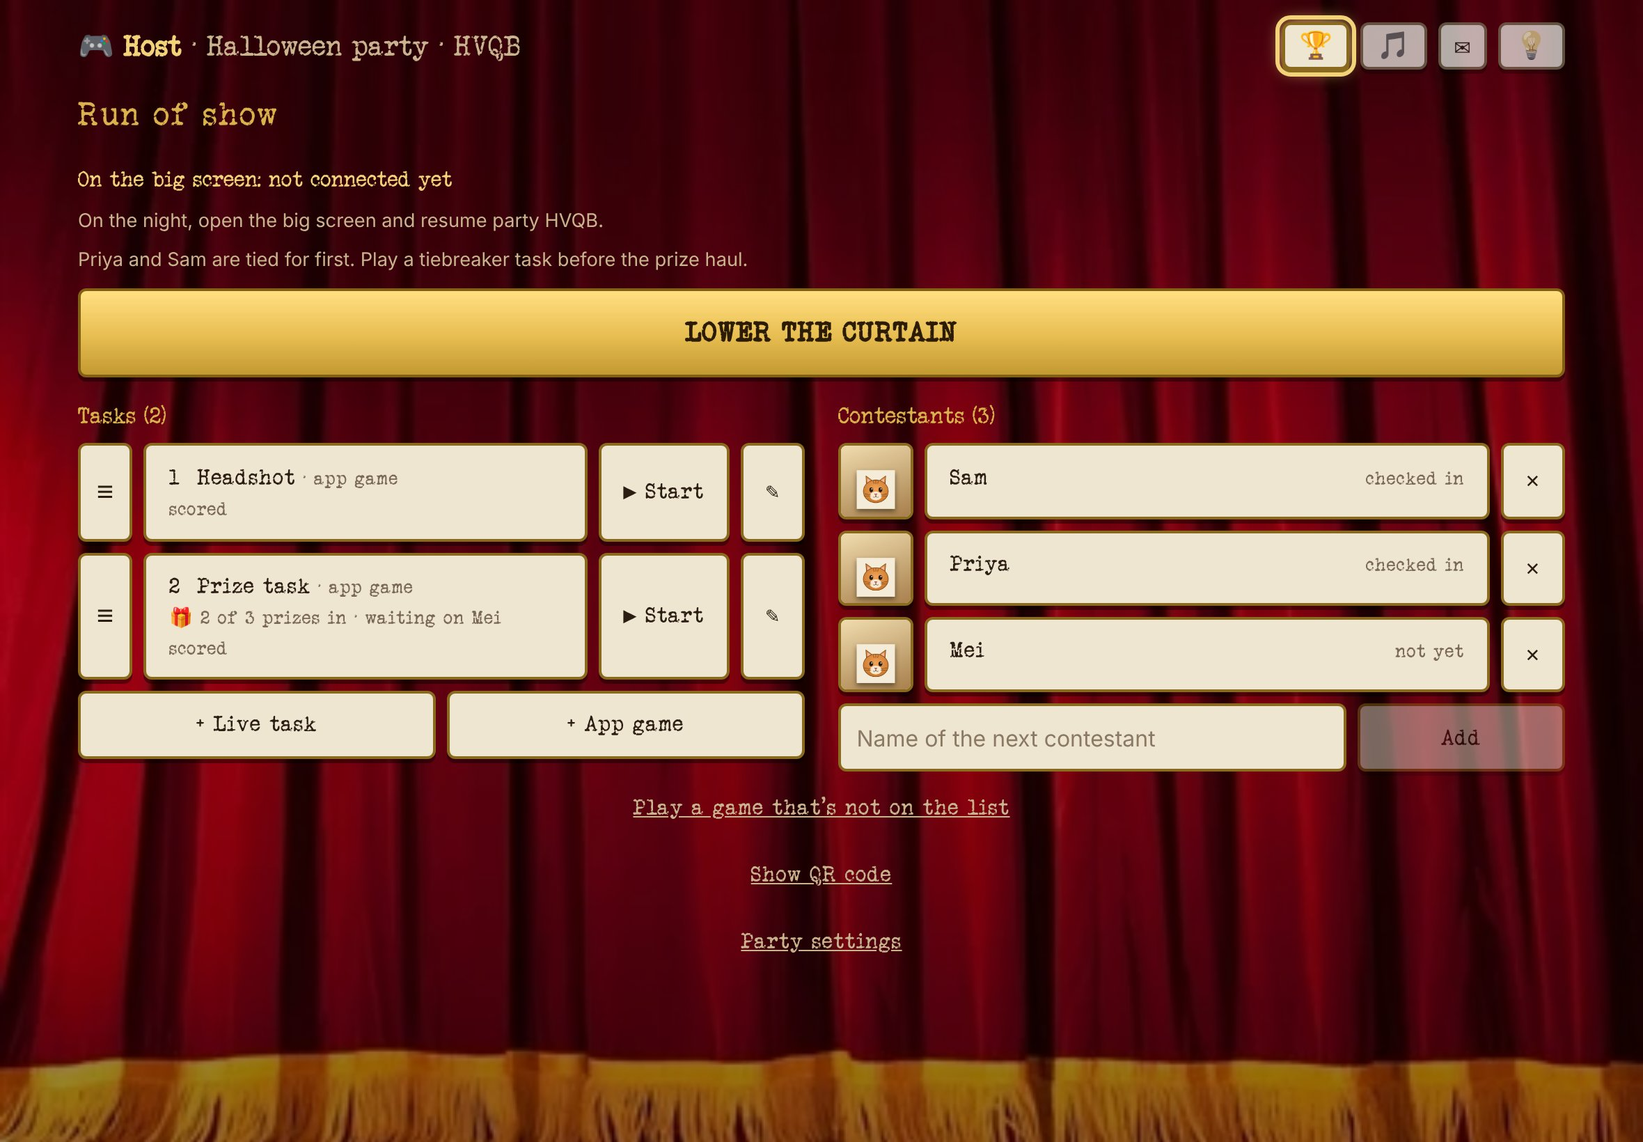
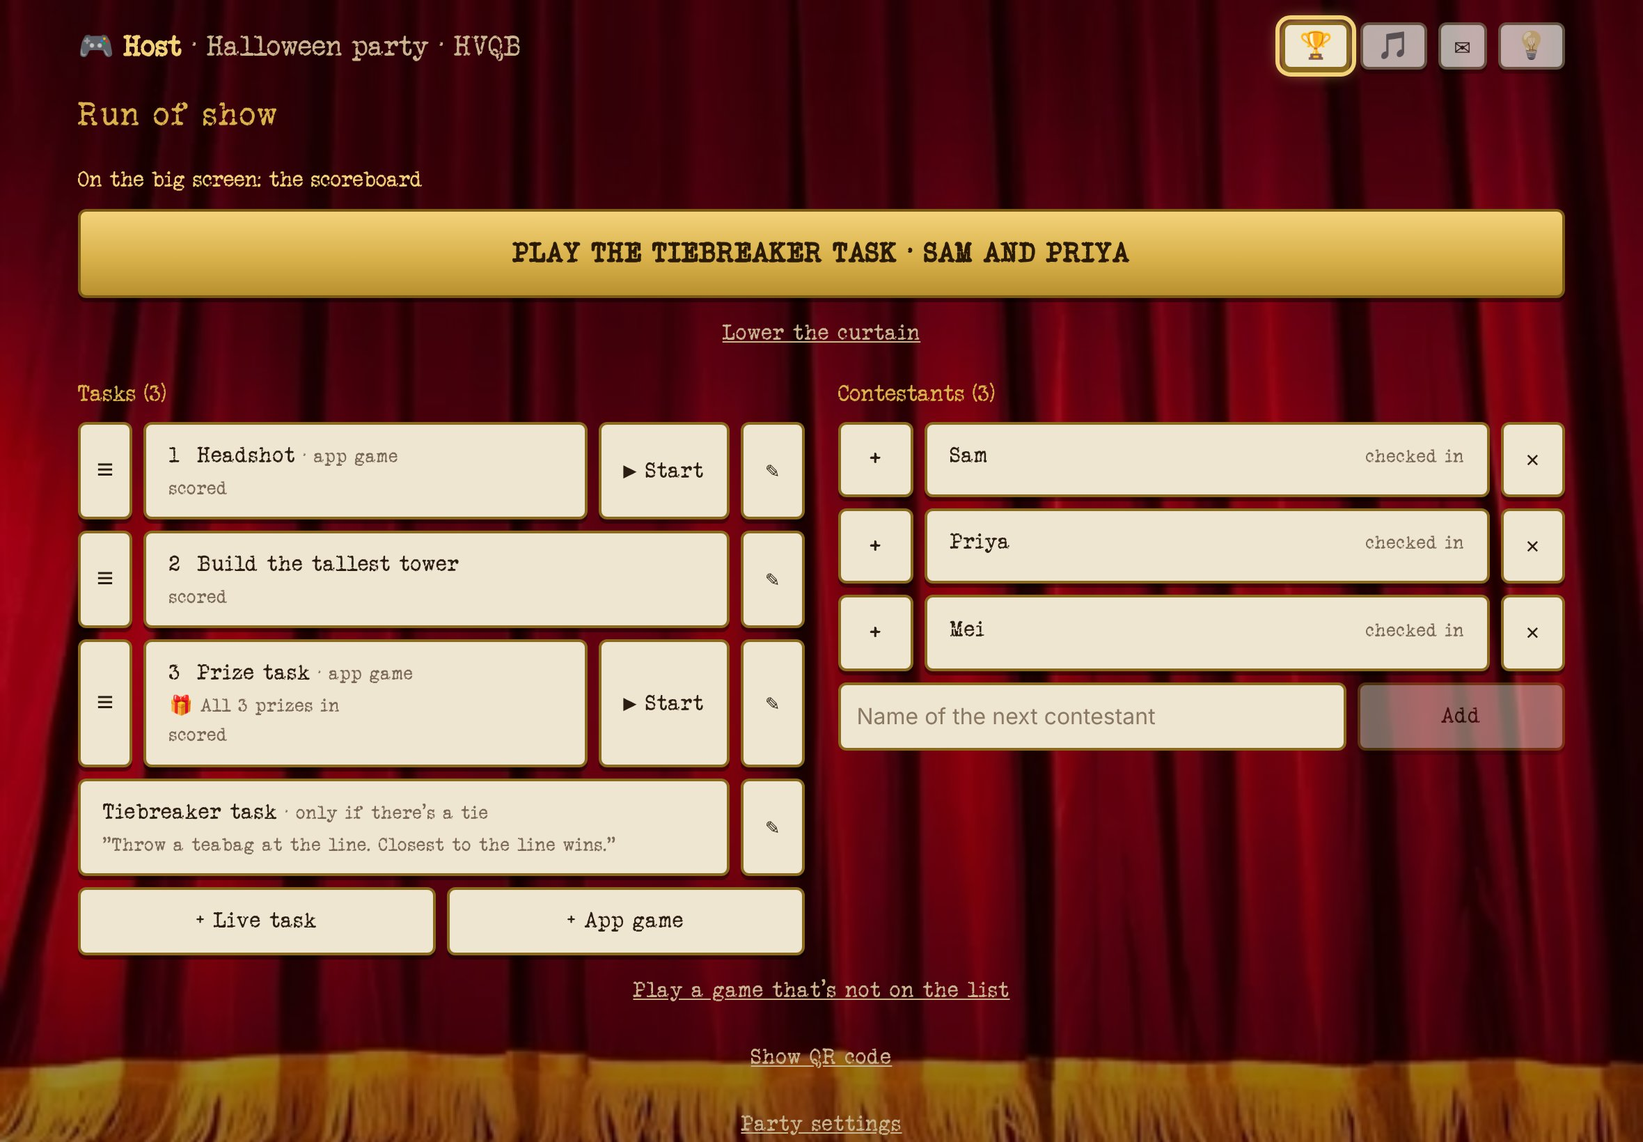
Tiebreaker task: build it for real
A tie shows with or without prize photos, the Firebase rules take the
tiebreaker (name, note, winner), and the decisions and screens are in docs.

Claude-Session: https://claude.ai/code/session_01DZ7V9oHhNtdU6L9jiZhxMo

diff --git a/src/scoreboard/ScoreboardRemote.tsx b/src/scoreboard/ScoreboardRemote.tsx
@@ -1,7 +1,7 @@
 import { useEffect, useRef, useState } from "react";
 import { GAMES, activeGame } from "../games";
 import { switchPhotosTask } from "../games/photos/data";
-import { haulState, prizesIn, showHaul } from "../games/prize/data";
+import { anyPrizes, prizesIn, showHaul, standing } from "../games/prize/data";
 import { noBigScreen, removePlayer, setGame, useUid } from "../session";
 import type { GameId, Scoreboard, ScoreboardContestant, ScoreboardTask, Session } from "../types";
 import {
@@ -47,7 +47,7 @@ export function ScoreboardRemote({ code, session, onStartGame, onOpenGame, onAdH
   // The tiebreaker task's page, opened from the gold button when the last update leaves a tie.
   const [tiebreak, setTiebreak] = useState<string[]>();
   // Who's tied at the top once every task is in and shown (still so once the tiebreaker has a winner).
-  const tied = haulState(session)?.tied;
+  const tied = standing(session)?.tied;
   const upNext = unfinished ?? next;
   const open = (id: string) => { setPicked(id); window.scrollTo(0, 0); };
   const game = activeGame(session);
@@ -96,10 +96,12 @@ function ShowControls({ code, session, onTiebreak }: { code: string; session: Se
   const { added, changed } = pendingTasks(board);
   const pending = [added && plural(added, "new task"), changed && `${changed} changed`].filter(Boolean).join(", ");
   const game = activeGame(session);
-  // A tie settled by the tiebreaker task can go to the haul from the curtain too: the tiebreaker
-  // was played with the scoreboard down.
-  const settled = haulState(session);
-  const haul = up || (settled && "winner" in settled && settled.tied) ? settled : undefined;
+  const now = standing(session);
+  // Still tied at the top: the tiebreaker task is the next thing.
+  const tied = now && !("winner" in now) ? now.tied : undefined;
+  // The haul goes up from the scoreboard, or from the curtain once a tiebreaker has been won (it's
+  // played with the scoreboard down).
+  const winner = now && "winner" in now && !pending && anyPrizes(session) && (up || now.tied) ? now.winner : undefined;
   const nameOf = (id: string) => board?.contestants?.[id]?.name ?? "";
   const haulUp = session.display?.step === "haul";
   const line = noBigScreen(session) ? "not connected yet" : up ? "the scoreboard" : haulUp ? "the prize haul"
@@ -115,27 +117,27 @@ function ShowControls({ code, session, onTiebreak }: { code: string; session: Se
           <button className="big" onClick={() => void lowerCurtain(code)}>Lower the curtain</button>
           <button className="link" onClick={() => void showScoreboard(code)}>Back to the scoreboard</button>
         </>
-      ) : !up && !haul ? (
+      ) : !up && !winner ? (
         <>
           <button onClick={() => void showScoreboard(code)}>Show the scoreboard</button>
           {pending && <p className="muted small">At the totals you last showed. {pending} to add when you update.</p>}
         </>
-      ) : pending ? (
+      ) : up && pending ? (
         <>
           <button className="big" onClick={() => void updateScores(code, board)}>Update the scores · {pending}</button>
           <button className="link" onClick={() => void lowerCurtain(code)}>Lower the curtain</button>
         </>
-      ) : haul && "winner" in haul ? (
+      ) : winner ? (
         // The end of the party: the winner's haul is the one next thing.
         <>
-          <button className="big" onClick={() => void showHaul(code)}>🎁 Show the prize haul · {nameOf(haul.winner)}</button>
+          <button className="big" onClick={() => void showHaul(code)}>🎁 Show the prize haul · {nameOf(winner)}</button>
           {up && <button className="link" onClick={() => void lowerCurtain(code)}>Lower the curtain</button>}
         </>
-      ) : haul ? (
+      ) : tied ? (
         // A tie at the top: the tiebreaker, for just the tied contestants, is the one next thing. It's a
         // live task, so the curtain comes down while it's played.
         <>
-          <button className="big" onClick={() => { void lowerCurtain(code); onTiebreak(haul.tied); }}>Play the tiebreaker task · {list(haul.tied.map(nameOf))}</button>
+          <button className="big" onClick={() => { void lowerCurtain(code); onTiebreak(tied); }}>Play the tiebreaker task · {list(tied.map(nameOf))}</button>
           <button className="link" onClick={() => void lowerCurtain(code)}>Lower the curtain</button>
         </>
       ) : (

diff --git a/src/games/prize/data.ts b/src/games/prize/data.ts
@@ -9,15 +9,14 @@ import type { Session } from "../../types";
 export const prizePhotos = (session: Session): Record<string, string[]> => session.games?.prize?.photos ?? {};
 
 /**
- * Whether the prize haul can go up: once every task on the run of show has points and the last of them
- * is on the scoreboard, with at least one prize photo. A tie at the top waits for a tiebreaker task
- * (just the tied contestants), so it names who's tied instead of a winner.
+ * Who won the night, once every task on the run of show has points and the last of them is on the
+ * scoreboard: the leader, or the winner of the tiebreaker task when the top is tied. A tie the
+ * tiebreaker hasn't settled names who's tied; `tied` stays on a settled one, for its page.
  */
-export function haulState(session: Session): { winner: string; tied?: string[] } | { tied: string[] } | undefined {
+export function standing(session: Session): { winner: string; tied?: string[] } | { tied: string[] } | undefined {
   const board = session.scoreboard;
   const tasks = Object.values(board?.tasks ?? {});
   if (!tasks.length || tasks.some((t) => !Object.keys(t.scores ?? {}).length)) return undefined;
-  if (!Object.values(prizePhotos(session)).some((p) => p.length)) return undefined;
   const totals = shownTotals(board);
   const top = Math.max(...Object.keys(board?.contestants ?? {}).map((c) => totals[c] ?? 0));
   const leaders = Object.keys(board?.contestants ?? {}).filter((c) => (totals[c] ?? 0) === top);
@@ -25,6 +24,15 @@ export function haulState(session: Session): { winner: string; tied?: string[] }
   // A tie settled by the tiebreaker task: its winner, as long as they're still among the tied.
   const settled = board?.tiebreaker?.winner;
   return settled && leaders.includes(settled) ? { winner: settled, tied: leaders } : { tied: leaders };
+}
+
+/** Whether any prize has a photo, so the haul has something to hang. */
+export const anyPrizes = (session: Session) => Object.values(prizePhotos(session)).some((p) => p.length);
+
+/** Whose haul can go up: the night's winner (see `standing`), once at least one prize has a photo. */
+export function haulWinner(session: Session): string | undefined {
+  const now = standing(session);
+  return now && "winner" in now && anyPrizes(session) ? now.winner : undefined;
 }
 
 /**

diff --git a/src/games/prize/Stage.tsx b/src/games/prize/Stage.tsx
@@ -5,7 +5,7 @@ import { SafeImg } from "../../SafeImg";
 import { setDisplay } from "../../session";
 import { useStageBarVisible } from "../../stageBar";
 import type { Display, Session } from "../../types";
-import { haulState, prizePhotos } from "./data";
+import { haulWinner, prizePhotos } from "./data";
 
 /** Main screen while the prize task is on: the photo the host put up, or the curtain. */
 export function Stage({ code, session, display, viewOnly }: { code: string; session: Session; display: Display; viewOnly: boolean }) {
@@ -91,8 +91,8 @@ export function Haul({ winner, headshot, prizes }: { winner: string; headshot?: 
 /** The haul as the big screen shows it: the scoreboard's winner, and every prize's ★ photo in the scoreboard's order. */
 export function HaulStage({ code, session }: { code: string; session: Session }) {
   const contestants = session.scoreboard?.contestants ?? {};
-  const haul = haulState(session);
-  const winner = haul && "winner" in haul ? contestants[haul.winner] : undefined;
+  const won = haulWinner(session);
+  const winner = won ? contestants[won] : undefined;
   // A tie (or a score changed since) has no winner to show: the curtain until the host calls it again.
   if (!winner) return <Curtain code={code} session={session} />;
   const photos = prizePhotos(session);

diff --git a/docs/redesign-decisions.md b/docs/redesign-decisions.md
@@ -232,10 +232,10 @@ Each contestant brings a prize; the winner takes the whole haul. Today the Prize
 | When a prize locks | When the host taps the guest's name. | When its first photo goes up: the photos could change while the host is looking at them. |
 | Everyone at once | No "◫ Show everyone" during presenting. Everyone's prizes are shown together only as the haul at the end of the party. | Everyone's ★ photos as a grid during the task. |
 | When the haul shows | At the end of the party, when the winner is declared. | At the end of the prize task, once every prize has been talked through (briefly agreed, then Jeffrey settled on the end of the party). |
-| The winner | The scoreboard's leader after the last update. A tie at the top is settled first by a tiebreaker task for just the tied contestants (to be designed); the haul waits for one winner. | The host always picking the winner on the remote. The host tapping one of the tied contestants: a tie is played off, as on the show. |
+| The winner | The scoreboard's leader after the last update. A tie at the top is settled first by a tiebreaker task for just the tied contestants (see Tiebreaker task); the haul waits for one winner. | The host always picking the winner on the remote. The host tapping one of the tied contestants: a tie is played off, as on the show. |
 | The haul (big screen) | A gallery wall on the curtain: the winner's headshot in a large gold frame in the centre, then each prize's ★ photo in a smaller gold frame, two rows either side, each with a small paper placard "from Sam". "Prize Haul" heads the wall as a big gold title, and the winner's portrait has a larger placard, "Priya is the winner!". The winner's own prize is included; guests with no photo are left out. Frames hug their photos, never cropped. | The usual paper strip at the bottom ("PRIZE HAUL · Priya", the first version): too small for the moment, and it didn't say who won. |
 | Hanging the haul | One by one, like a gallery being hung: the headshot first, then a prize every 0.6s (the usual hang animation), filling from the centre outwards and alternating sides. With reduced motion, everything appears at once. | All at once: one by one builds the moment. |
-| Calling the haul (host) | On the run of show while the scoreboard is up, once every task has points and the last update has been run, and at least one prize has photos: gold "🎁 Show the prize haul · Priya" takes the place of gold "Lower the curtain", which becomes a link under it. The winner's name on the button confirms who the room is about to see. With a tie at the top, there's no haul button: a muted line, "Priya and Tom are tied for first. Play a tiebreaker task before the prize haul.", and "Lower the curtain" stays gold. | A haul button on the prize task's own page: the haul comes at the end of the party, after the scores, not after presenting. Picking a winner among the tied: a tie is played off. |
+| Calling the haul (host) | On the run of show while the scoreboard is up, once every task has points and the last update has been run, and at least one prize has photos: gold "🎁 Show the prize haul · Priya" takes the place of gold "Lower the curtain", which becomes a link under it. The winner's name on the button confirms who the room is about to see. With a tie at the top, there's no haul button: the tiebreaker task takes its place (see Tiebreaker task). | A haul button on the prize task's own page: the haul comes at the end of the party, after the scores, not after presenting. Picking a winner among the tied: a tie is played off. |
 | The haul up (host) | Gold "Lower the curtain", and a quiet "Back to the scoreboard" link. | |
 | A prize picked (host) | On a wide iPad: the list on the left, and "Priya's prize" on the right with her photos as large previews in her order, ★ on the first. "Tap a photo to put it on the big screen." Then a paper "+ Add photos" and "Lower the curtain" (disabled while nothing is up). No gold until a photo is on the big screen, which then gets the gold ring. Tapping another name switches straight to them. On a phone the two stack. | A separate screen per contestant (Before & After's): jumping from one guest to another would need a trip back to the list. |
 | A photo up | Tapping a preview hangs that photo in the gold frame on the big screen, labelled "prize · Priya", as a headshot hangs. On the remote it gets the gold ring and "on the big screen", the line above the list reads "On the big screen: Priya's prize, photo 2", and "Lower the curtain" wakes up. Tapping another preview (or another guest's) switches straight to it. | Previous / Next on the stage's backup bar: the host picks each photo, so there's no order to step through. |
@@ -247,6 +247,22 @@ Each contestant brings a prize; the winner takes the whole haul. Today the Prize
 | Sending (phone) | Photos' sending state as is: the progress bar takes Submit's place, "Submitting… 40%", "Keep this screen open until it's done.", Cancel; a failed send says nothing was submitted, with "Try again". All the photos go as one submission. | |
 | Submitted (phone) | A still receipt with no gold: the "✓ Submitted" stamp, "🎁 Your prize", the photos in their order with the ★ and nothing to press on them, "4 photos. Only the host sees them until your prize is presented. You can change them until then.", and a quiet "Change my photos" link back to the check screen with these photos on it. | Photos' 🔒 "ask the host" receipt: Sam can change them until the prize is presented. |
 | Once presented (phone) | While the prize task is on: the same receipt, with "Change my photos" replaced by "🔒 Your prize has been presented." After the task, the card shrinks to one line, "🎁 🔒 Your prize has been presented.", so it stops taking up the phone. Anything added after that comes from the host. | |
+
+## Tiebreaker task
+
+Every party has a tiebreaker task, played only if the last update leaves two or more contestants tied at the top, and only by them, as on the show. It has to be done before the winner and the prize haul. Designed one moment at a time with Jeffrey.
+
+| Moment | Decision | Rejected, and why |
+| --- | --- | --- |
+| Moments, in order | 1. Finding the tie. 2. Recording the winner. 3. Revealing it. 4. Playing it. 5. Planning it. 6. A tied tiebreaker. | Starting with planning: how it runs on the night decides what has to be planned. |
+| What it is | A live task designed to have exactly one winner. It has no points: the host records who won, and nobody's total on the scoreboard changes. The task decides the winner, not the host. | One of the app games: they score everyone 0 to 5. 0 to 5 points for the tied contestants. |
+| Finding the tie (host) | After the last update, with a tie at the top and the scoreboard up: gold "Play the tiebreaker task · Sam and Priya" in the haul button's place, "Lower the curtain" as a link under it. The names come in the scoreboard's order. The tie shows whether or not any prize has photos. | The muted "tied for first" line above it: the button says it. Announcing the tie on the big screen: the host says it as Taskmaster, and the scoreboard already enlarges everyone tied at the top. "Play the tiebreaker": "tiebreaker task" is what it's called on the run of show. |
+| Playing it | Like any live task. The gold tap lowers the curtain to the party's portrait and opens the tiebreaker task's page. Phones don't change: the host reads the task out. The paper "Show the scoreboard" stays above the page, as a way back. | The task on the big screen as a torn-paper card: live tasks show the curtain. "You're in the tiebreaker" on the tied guests' phones: they've just heard it. Hiding "Show the scoreboard" while it's played. |
+| Recording the winner (host) | The points page's shell: "Tiebreaker task: Sam and Priya", "← All tasks", the note under it, "Tap who won.", then the Headshot task's list with just the tied contestants. The one tapped is pressed in and reads "won the tiebreaker"; tapping it again clears it, tapping the other switches. No gold, and nothing on the big screen. | Headshots on the rows: two or three names need nothing to tell them apart. 0 to 5 chips. The tap revealing the winner straight away. |
+| Revealing it | No reveal on the big screen: the host announces it. Recording a winner turns the slot above the page into gold "🎁 Show the prize haul · Sam", which goes up from the curtain; nothing goes up until it's tapped. The haul's placard says who won. Back on the run of show, the same button replaces "Play the tiebreaker task". With no prize photos there's no haul, as before. | A "Sam wins the tiebreaker" card before the haul. The haul going up as soon as the winner is tapped. "Show the scoreboard" as a link under the gold: the scoreboard is still tied, so it can't show who won. Sam alone enlarged on the scoreboard: the points are still tied. |
+| Planning it | One fixed row at the end of the task list: "Tiebreaker task · only if there's a tie" and the note as its first line, or "Add how it's won with ✎". No number and no ≡, since it's outside the running order and always last; "Tasks (3)" doesn't count it. It looks disabled (the style guide's) until there's a tie, then opens its page. ✎ fixes its name and note ("How it's played, and how it's won: one winner."), with no "Remove this task": every party has one, older parties included, since nothing is stored until it's named. It never holds up the haul or takes "← next". | A normal task marked as the tiebreaker: it could be dragged mid-list or scored. Setting it in Party settings: tasks are planned on the run of show. |
+| A tied tiebreaker | Nothing new: the host calls a draw and they go again. Nobody is tapped until someone wins, and the haul waits. | A "Tied again" button or a rematch count. |
+| A score fixed after it | The tiebreaker's winner counts only while they're still among those tied at the top; otherwise the scoreboard's leader (or a new tie) takes over. | |
 
 ## Host pin
 

diff --git a/docs/screens/README.md b/docs/screens/README.md
@@ -61,7 +61,7 @@ Scoreboard (taken on 2026-10-12, from the real components with made-up sessions;
 | `headshot-task-main.jpg` | Main screen: one headshot in the gold frame |
 | `headshot-task-main-everyone.jpg` | Main screen: everyone's headshots |
 | `host-party-settings-name.jpg` | Party settings: renaming the party |
-| `run-of-show-host.jpg` | The remote's home, the run of show: scoreboard buttons, "Give points", tasks, contestants with "checked in" / "not yet", someone not on the scoreboard yet |
+| `run-of-show-host.jpg` | The remote's home, the run of show: scoreboard buttons, "Give points", tasks ending with the tiebreaker task (disabled until there's a tie), contestants with "not yet", Jo here but not on the scoreboard yet |
 | `run-of-show-host-playing.jpg` | The run of show during a game: "Now playing: Photos: best costume · Open →" |
 | `run-of-show-host-play-a-game.jpg` | "Play a game": the picker for a game that's not on the run of show |
 | `run-of-show-host-add-game.jpg` | "+ App game" on the run of show: Noisemaster and Headshot greyed out as "on the list", Photos still offered |
@@ -79,13 +79,22 @@ Scoreboard (taken on 2026-10-12, from the real components with made-up sessions;
 | `prize-main-photo.jpg` | Main screen: one prize photo hung in the gold frame, labelled "prize · Sam" (stand-in photo) |
 | `main-prize-haul.jpg` | Main screen at the end of the party: "Prize Haul" across the top, the winner's headshot in the centre with "Priya is the winner!" and every prize's ★ photo hung around it with "from Sam" placards (stand-in photos) |
 | `main-prize-haul-hanging.jpg` | The same haul mid-way through hanging, the prizes going up one by one from the centre outwards |
-| `run-of-show-host-haul-remote.jpg` | The run of show on the iPad after the last update: gold "🎁 Show the prize haul · Priya", "Lower the curtain" as a link |
-| `run-of-show-host-haul-remote-tie.jpg` | The same with a tie at the top: "Priya and Sam are tied for first. Play a tiebreaker task before the prize haul." |
+| `run-of-show-host-haul-remote.jpg` | The run of show on the iPad after the last update: gold "🎁 Show the prize haul · Priya", "Lower the curtain" as a link, the tiebreaker task's row disabled |
 | `prize-host-adding.jpg` | Prize task on the iPad: the host adding photos to Jo's prize, one sent (★, since Jo had none) and one still sending (rendered from the component with stand-in photos) |
 | `run-of-show-host-prizes-in.jpg` | The run of show mid-party: the Prize task's row reads "🎁 2 of 3 prizes in · waiting on Mei" |
 | `prize-player-presented.jpg` | Prize task on a guest's phone once the host has started presenting their prize: the receipt with "🔒 Your prize has been presented." in place of "Change my photos" |
 | `prize-player-after.jpg` | The same guest later in the party: the prize card shrunk to one line, "🎁 🔒 Your prize has been presented." |
 | `run-of-show-host-haul-up.jpg` | The run of show with the haul on the big screen: gold "Lower the curtain", "Back to the scoreboard" as a link |
+
+Tiebreaker task (taken on 2026-10-13, from the real components with a made-up party):
+
+| File | What it shows |
+|---|---|
+| `run-of-show-host-tiebreaker.jpg` | The run of show before the party: "Tiebreaker task · only if there's a tie" last in the task list, with its note, no number or ≡, disabled until there's a tie |
+| `run-of-show-host-tiebreaker-edit.jpg` | ✎ on the tiebreaker task: its name and note, Save and Cancel, no "Remove this task" |
+| `run-of-show-host-haul-remote-tie.jpg` | The run of show after the last update with Sam and Priya tied at the top: gold "Play the tiebreaker task · Sam and Priya", "Lower the curtain" as a link, the tiebreaker row enabled |
+| `tiebreaker-host-playing.jpg` | The tiebreaker task's page, with the curtain down: "Tiebreaker task: Sam and Priya", the note to read out, "Tap who won.", nobody tapped |
+| `tiebreaker-host-won.jpg` | The same page with Sam tapped as "won the tiebreaker": gold "🎁 Show the prize haul · Sam" from the curtain |
 
 Host pin (taken on 2026-10-13, from the real components with a made-up party):
 
